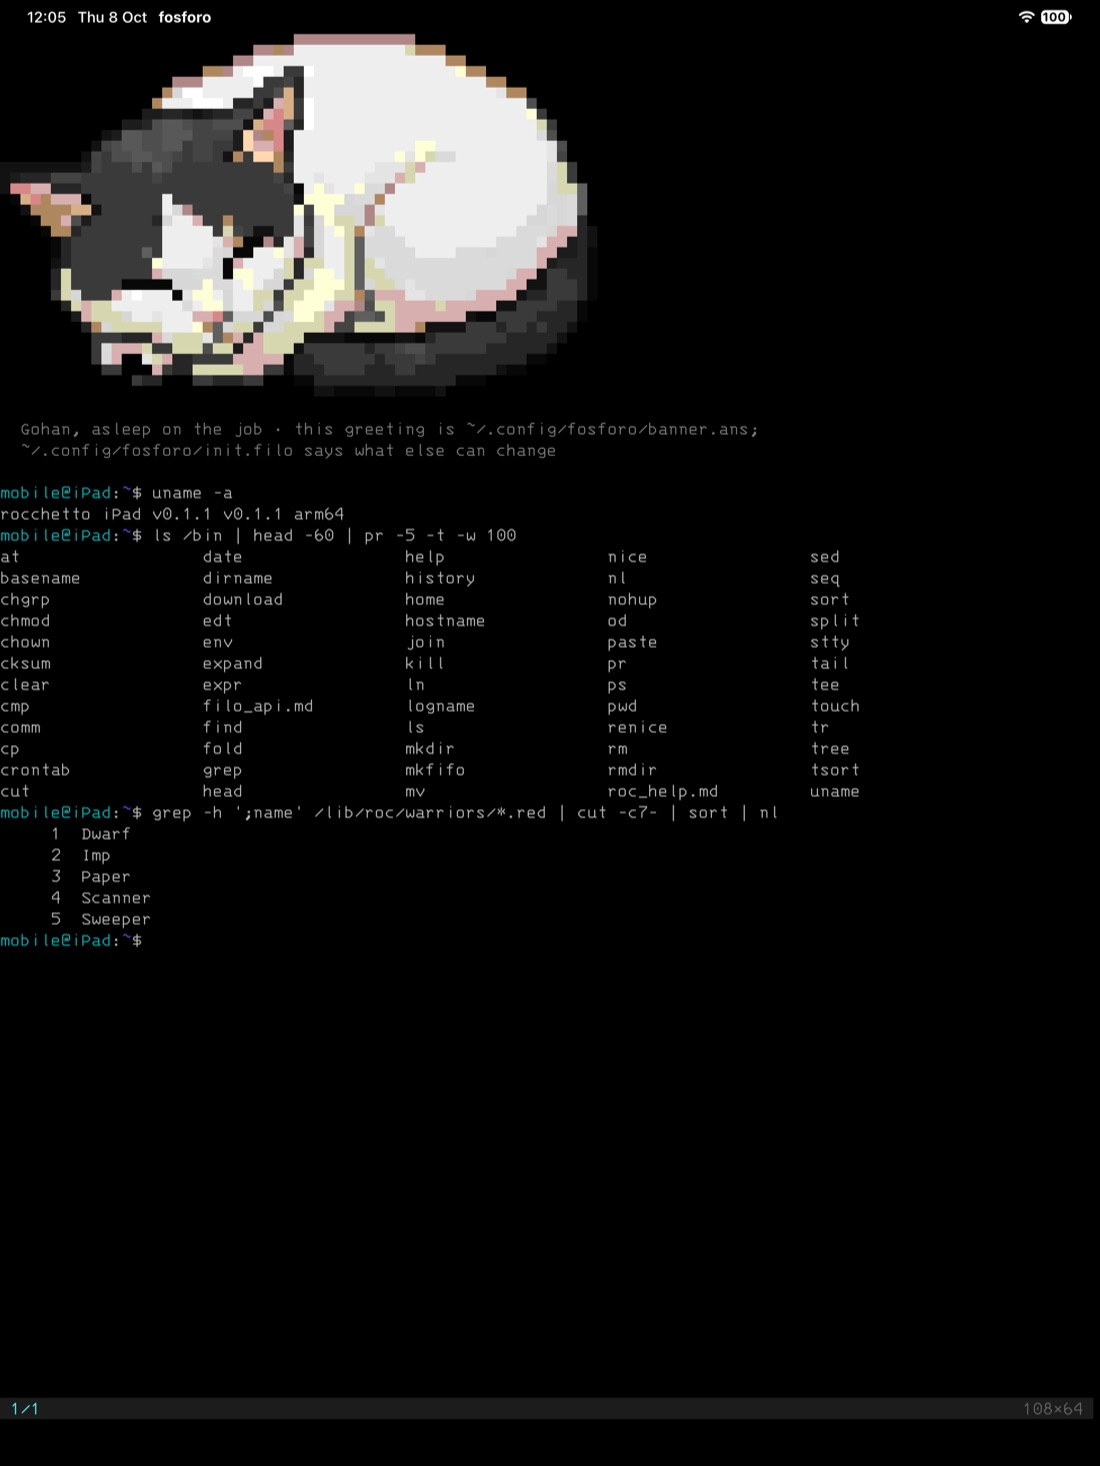
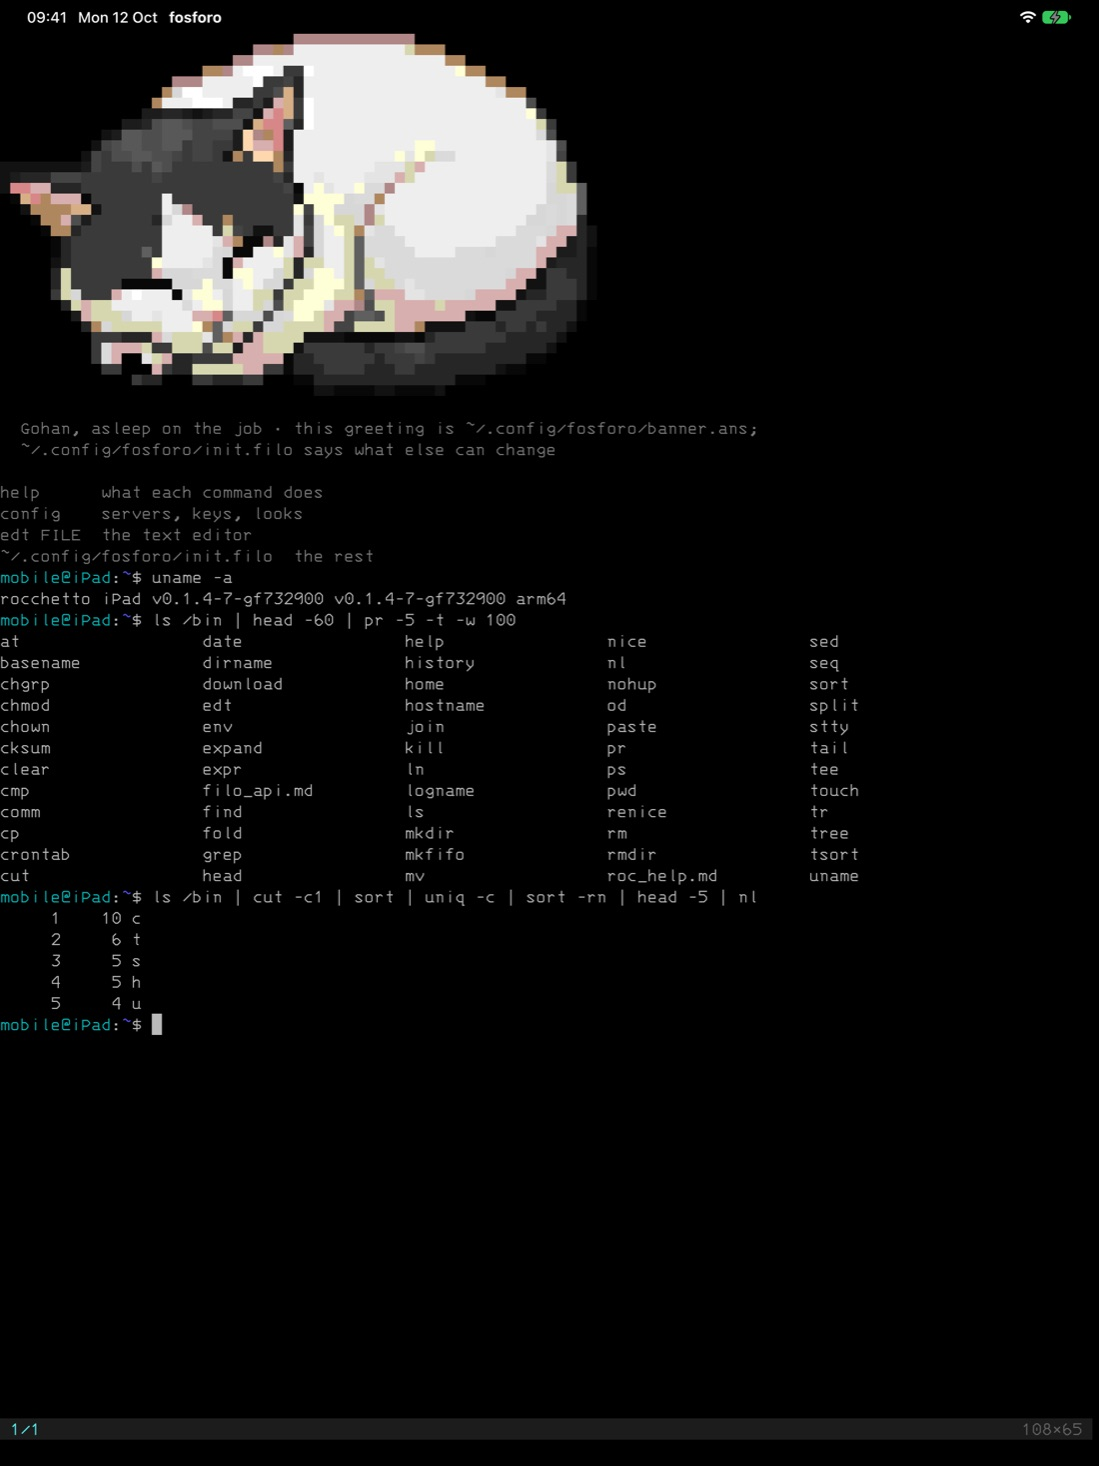
prepare apple store

diff --git a/store/listing-ja.md b/store/listing-ja.md
@@ -1,0 +1,49 @@
+# fosforo — App Storeの掲載情報、日本語
+
+`listing.md` の翻訳。名前、URL、スクリーンショットは英語版と同じ。
+
+## Subtitle (30)
+
+SSHとMoshに対応したターミナル
+
+## Promotional text (170)
+
+iPadとiPhoneのための本物のターミナル。Unix風のシェルを内蔵し、SSHとMoshのクライアント、Secure Enclaveで守られた鍵を備え、データは一切収集しません。
+
+## Description (4000)
+
+fosforoは、コマンドラインで暮らす人のためのiPad・iPhone用ターミナルエミュレータです。
+
+・広告なし
+・サブスクリプションなし
+・テレメトリなし
+・ただ、良いターミナル
+
+独自のシェル
+fosforoは、アプリに内蔵された小さなUnix風シェル「rocchetto」で起動します。パイプ、リダイレクト、変数、関数、履歴、Tab補完を備え、ls、grep、sed、sort、find、wcのほか60以上のコマンドが使えます。オフラインで動作し、アカウントもサーバーも不要です。
+
+SSHとMOSH
+sshとmoshはアプリ独自のクライアントです。Moshはネットワークが切り替わっても、デバイスがスリープしてもセッションを保ちます。ssh-keygenとssh-copy-idも使えます。
+
+鍵はデバイスの中に
+秘密鍵は、このデバイスのSecure Enclaveにある鍵で暗号化して保管できます。コピーされた鍵ファイルは他の場所では役に立たず、開くにはFace ID、Touch ID、またはパスコードが必要です。
+
+本物のターミナル
+・vim、tmux、htopなどの全画面プログラムを、Metalレンダラーで正しく表示します。
+・罫線、ブロック、点字、Powerlineの記号は図形として描画されるため、ANSIアートに継ぎ目が出ません。
+・標準フォントはIBM 3270。日本語、中国語、カラー絵文字はシステムのフォントで表示します。
+・ウインドウごとに複数のセッション、スクロールバックの検索、コピーモード、開けるリンク。
+・画面キーボードの上にキーバー。iPadではメニューバーを含め、ハードウェアキーボードに完全対応。
+・iPadでは、Apple Pencilでターミナルの上に描いて、その画像を共有できます。
+
+自分好みに
+設定とテーマは、読んで編集できるFiloスクリプトです。ファイルは「ファイル」アプリから取り込め、iCloud Driveのフォルダはシェルから~/iCloudとして見えます。
+
+プライバシーを最初から
+fosforoは何も収集しません。解析も、トラッキングも、アカウントもありません。接続するのは、あなたが指定したマシンだけです。
+
+fosforoはオープンソース(MIT)です:github.com/crgimenes/fosforo
+
+## Keywords (100)
+
+ターミナル,ssh,mosh,シェル,コンソール,unix,コマンドライン,サーバー,端末,vt100,ansi,鍵,リモート

diff --git a/store/listing-it.md b/store/listing-it.md
@@ -1,0 +1,68 @@
+# fosforo — scheda dello store, Italiano
+
+Traduzione di `listing.md`. Nome, URL e screenshot come in inglese.
+
+## Subtitle (30)
+
+Terminale con SSH e Mosh
+
+## Promotional text (170)
+
+Un vero terminale per iPad e iPhone: shell in stile Unix integrata,
+client SSH e Mosh, chiavi protette dal Secure Enclave e nessun dato
+raccolto.
+
+## Description (4000)
+
+fosforo è un emulatore di terminale per iPad e iPhone, pensato per chi
+vive alla riga di comando.
+
+- Niente pubblicità
+- Niente abbonamenti
+- Niente telemetria
+- Solo un buon terminale
+
+UNA SHELL TUTTA SUA
+fosforo si apre in rocchetto, una piccola shell in stile Unix integrata
+nell'app: pipe, redirezioni, variabili, funzioni, cronologia e
+completamento con Tab, con ls, grep, sed, sort, find, wc e altri
+sessanta comandi. Funziona offline, senza account e senza server.
+
+SSH E MOSH
+I comandi ssh e mosh sono client propri dell'app. Mosh mantiene viva la
+sessione quando cambia la rete e quando il dispositivo va in stop. Ci
+sono anche ssh-keygen e ssh-copy-id.
+
+CHIAVI CHE RESTANO SUL DISPOSITIVO
+Le chiavi private possono essere cifrate con una chiave che vive nel
+Secure Enclave di questo dispositivo. Una copia del file è inutile
+altrove, e aprirla richiede Face ID, Touch ID o il codice.
+
+UN VERO TERMINALE
+- I programmi a schermo intero come vim, tmux e htop appaiono come
+  devono, con un renderer Metal.
+- Riquadri, blocchi, braille e glifi Powerline sono disegnati dalla
+  geometria, così l'arte ANSI non ha giunture.
+- Il font predefinito è IBM 3270; giapponese, cinese ed emoji a colori
+  vengono dal sistema.
+- Più sessioni per finestra, ricerca nello scrollback, modalità copia e
+  link che si aprono.
+- Una barra di tasti sopra la tastiera su schermo e pieno supporto alla
+  tastiera fisica su iPad, barra dei menu inclusa.
+- Su iPad, disegna sul terminale con Apple Pencil e condividi
+  l'immagine.
+
+FATTO A MODO TUO
+Configurazione e temi sono script Filo che puoi leggere e modificare. I
+file arrivano dall'app File, e la cartella di iCloud Drive appare nella
+shell come ~/iCloud.
+
+PRIVATO PER SCELTA
+fosforo non raccoglie nulla: niente analisi, niente tracciamento,
+niente account. Si collega solo alle macchine che indichi tu.
+
+fosforo è open source (MIT): github.com/crgimenes/fosforo
+
+## Keywords (100)
+
+terminale,ssh,mosh,shell,console,unix,riga di comando,server,sysadmin,vt100,ansi,chiavi,remoto

diff --git a/store/listing.md b/store/listing.md
@@ -1,7 +1,9 @@
 # fosforo — App Store listing (draft)
 
 Fields as App Store Connect names them, with their limits. English (U.S.)
-is the primary language.
+is the primary language; Italian and Japanese translations are in
+`listing-it.md` and `listing-ja.md`. No Portuguese (Brazil): the name
+"fosforo" is taken in that localization.
 
 ## Name (30)
 
@@ -160,7 +162,6 @@ asks for (simulators renamed "iPhone" and "iPad" so the prompt is short):
 - iPad 13" (2064 × 2752): `ipad-1-shell.png` (Gohan's greeting, the
   commands, a pipeline).
 
-The iOS build has no Core War, so its shots are gone, and
-`iphone-1-shell.png` (its pipelines run over the warriors) needs
-retaking. Still to make: an iPad SSH session, the new key bar, and the
-phosphor theme.
+The iOS build has no Core War; both shell shots were retaken without the
+warriors (status bar at 9:41). Still to make: an iPad SSH session, the
+new key bar, and the phosphor theme.
